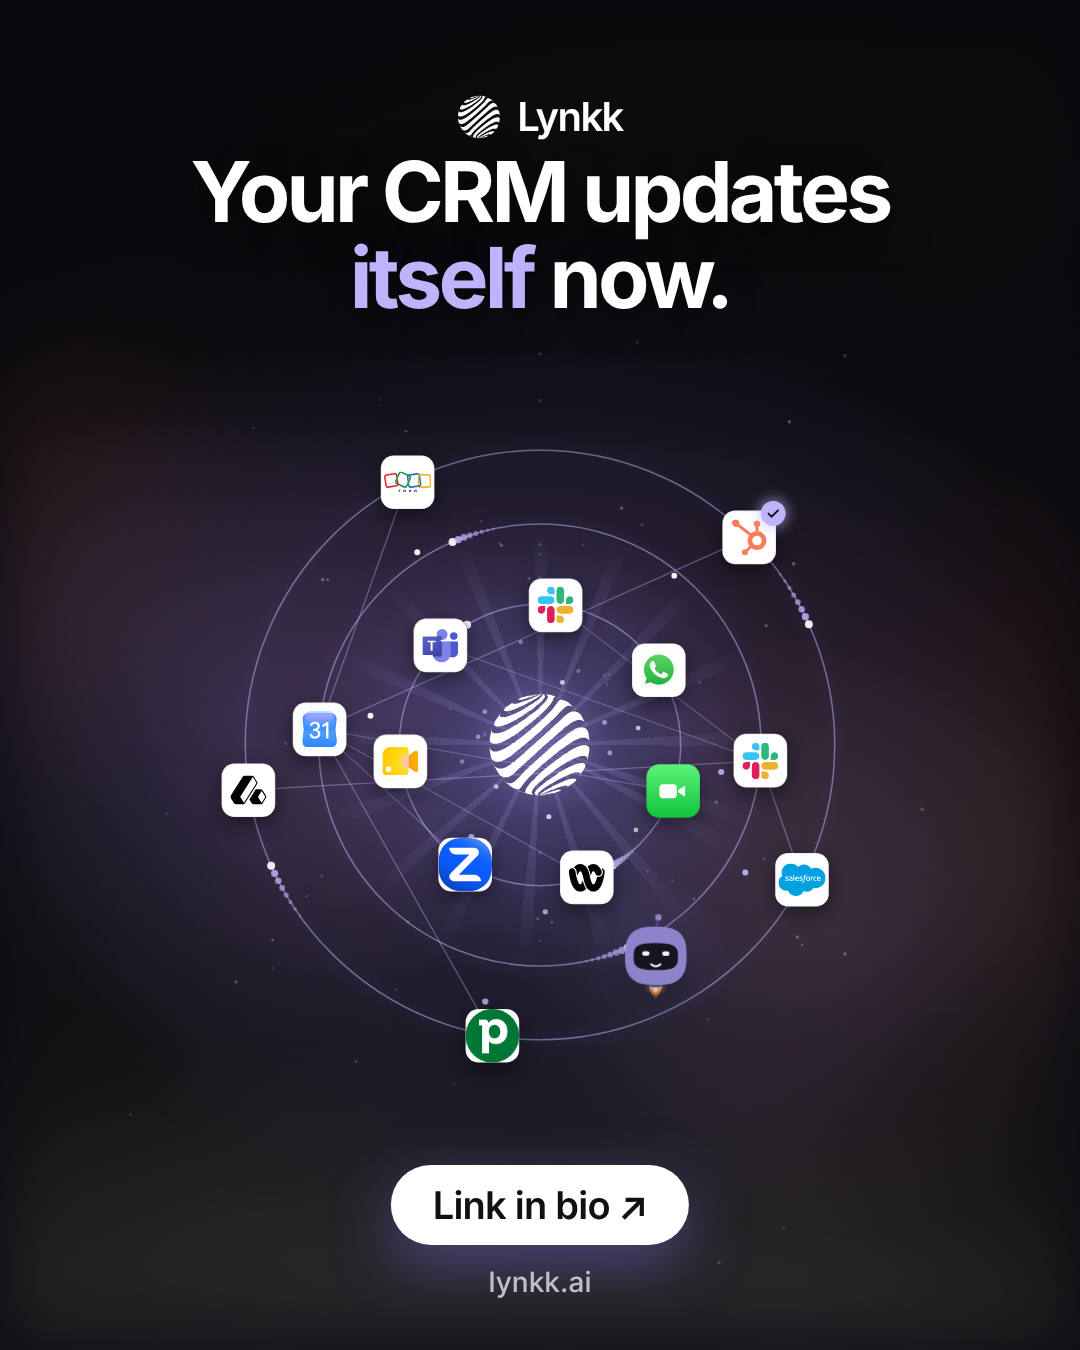
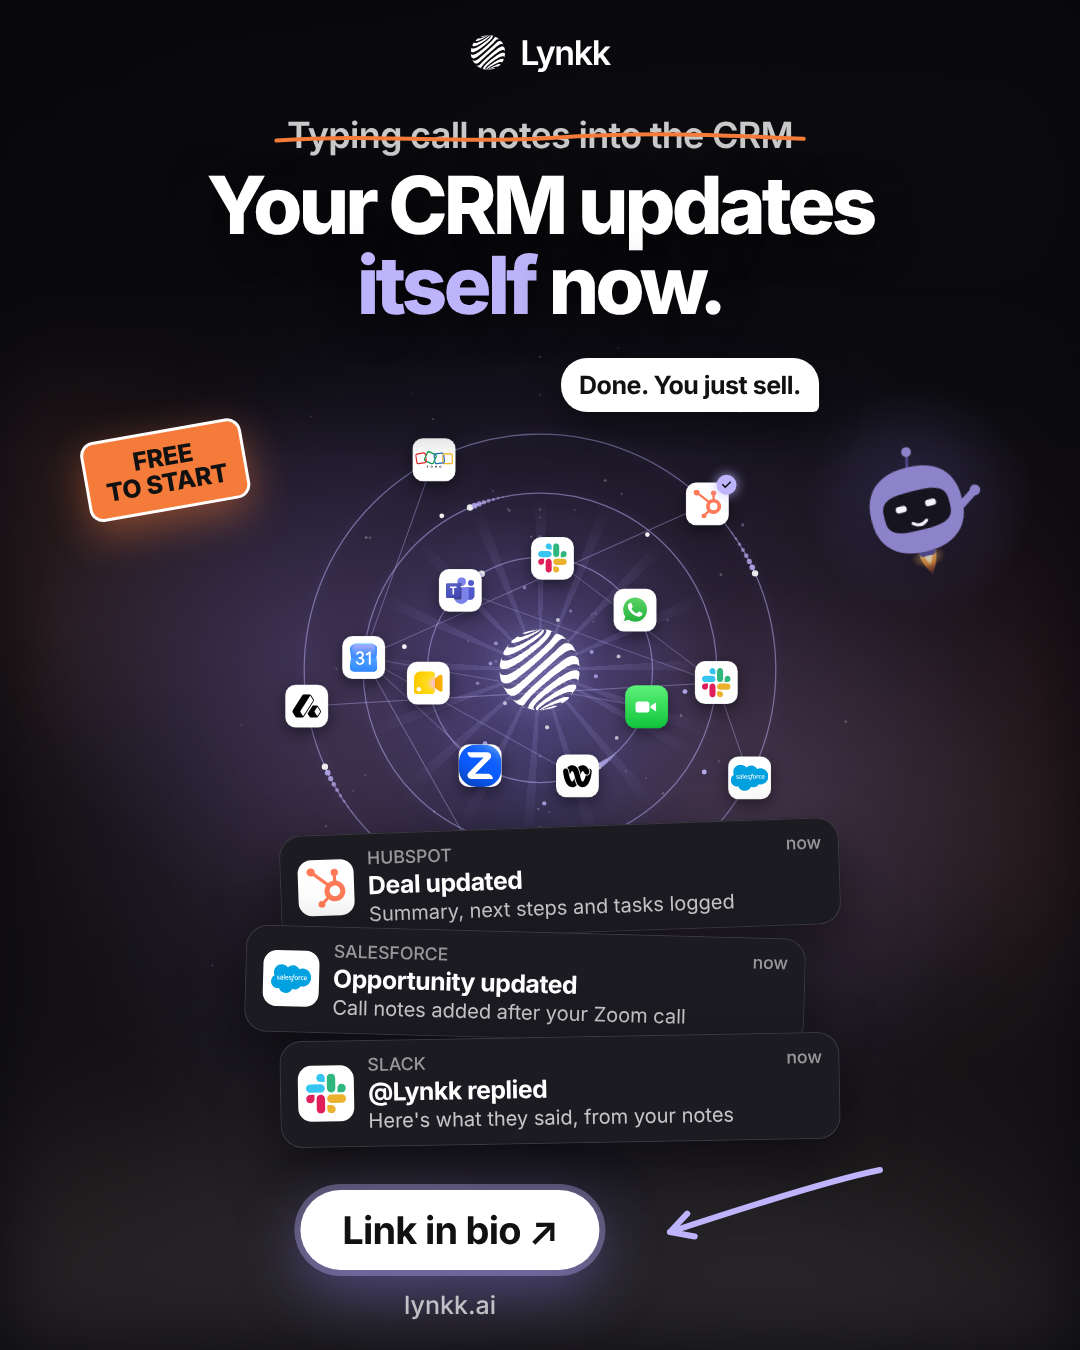
Viral cover v2 for The Orbit
Adds a crossed-out old habit ('Typing call notes into the CRM'), a stack
of HubSpot / Salesforce / Slack notifications over the orbit, Remi with
'Done. You just sell.', a FREE TO START sticker and a hand-drawn arrow
to 'Link in bio'.

Claude-Session: https://claude.ai/code/session_013GfxFGE5DaFWf2KnSjNRZk

diff --git a/lynkk-orbit-video/source/src/Cover.tsx b/lynkk-orbit-video/source/src/Cover.tsx
@@ -1,86 +1,224 @@
 import React from "react";
 import { AbsoluteFill, Img, Sequence, staticFile } from "remotion";
-import { FORMATS, FmtContext, INTER, MARK_PATHS, MARK_VIEWBOX, palette, per, type FmtName } from "./lib";
+import { FORMATS, FmtContext, INTER, MARK_PATHS, MARK_VIEWBOX, palette, per, type Fmt, type FmtName } from "./lib";
 import { Orbit } from "./scenes/Orbit";
+import { Remi } from "./remi/Remi";
+import { remiAt, wave } from "./remi/flight";
 import { T } from "./timing";
 
 /**
- * Cover images for the two videos: the orbit at full spin (the drop), with a
- * hook headline, the Lynkk mark and a "Link in bio" pill. Rendered as stills.
+ * Cover images for the two videos, built to stop the scroll: a crossed-out
+ * old habit, the hook, the orbit at full spin with a stack of notifications
+ * landing on it, Remi with a line, a FREE TO START sticker and a hand-drawn
+ * arrow to "Link in bio". Rendered as stills.
  */
-const FRAME = T.drop + 32; // every ring spinning, light streaming in, Remi mid-hop
+const FRAME = T.drop + 32; // every ring spinning, light streaming in
+
+type Box = { x: number; y: number };
+
+/** A phone-style notification. Strings describe what Lynkk really does (TRUTHS, Integrations). */
+const Toast: React.FC<{ at: Box; w: number; logo: string; app: string; title: string; body: string; rot: number; s: number }> = ({ at, w, logo, app, title, body, rot, s }) => (
+  <div
+    style={{
+      position: "absolute",
+      left: at.x,
+      top: at.y,
+      width: w,
+      transform: `translate(-50%, -50%) rotate(${rot}deg)`,
+      display: "flex",
+      gap: 18 * s,
+      alignItems: "center",
+      padding: `${18 * s}px ${22 * s}px`,
+      borderRadius: 28 * s,
+      background: "rgb(28,27,34)",
+      boxShadow: "inset 0 0 0 1px rgba(255,255,255,0.14), 0 24px 60px rgba(0,0,0,0.55)",
+      fontFamily: INTER,
+    }}
+  >
+    <div style={{ width: 70 * s, height: 70 * s, borderRadius: 17 * s, background: "#fff", display: "grid", placeItems: "center", flexShrink: 0 }}>
+      <Img src={staticFile(`logos/${logo}`)} style={{ width: 50 * s, height: 50 * s, objectFit: "contain" }} />
+    </div>
+    <div style={{ flex: 1, minWidth: 0 }}>
+      <div style={{ display: "flex", justifyContent: "space-between", fontSize: 22 * s, color: "rgba(255,255,255,0.55)", fontWeight: 500 }}>
+        <span>{app.toUpperCase()}</span>
+        <span>now</span>
+      </div>
+      <div style={{ fontSize: 31 * s, fontWeight: 700, color: "#fff", letterSpacing: "-0.02em", marginTop: 2 * s }}>{title}</div>
+      <div style={{ fontSize: 25 * s, color: "rgba(255,255,255,0.75)", marginTop: 2 * s, whiteSpace: "nowrap", overflow: "hidden", textOverflow: "ellipsis" }}>{body}</div>
+    </div>
+  </div>
+);
+
+/** A hand-drawn arrow from a to b, curving. */
+const Scribble: React.FC<{ fmt: Fmt; a: Box; b: Box; bend: number; color: string; w: number }> = ({ fmt, a, b, bend, color, w }) => {
+  const mx = (a.x + b.x) / 2 + bend;
+  const my = (a.y + b.y) / 2 - Math.abs(bend) * 0.4;
+  const ang = Math.atan2(b.y - my, b.x - mx);
+  const h = w * 4.2;
+  const l = { x: b.x - h * Math.cos(ang - 0.5), y: b.y - h * Math.sin(ang - 0.5) };
+  const r = { x: b.x - h * Math.cos(ang + 0.5), y: b.y - h * Math.sin(ang + 0.5) };
+  return (
+    <svg style={{ position: "absolute", inset: 0, width: fmt.W, height: fmt.H, overflow: "visible" }}>
+      <path d={`M${a.x} ${a.y} Q${mx} ${my} ${b.x} ${b.y}`} fill="none" stroke={color} strokeWidth={w} strokeLinecap="round" />
+      <path d={`M${l.x} ${l.y} L${b.x} ${b.y} L${r.x} ${r.y}`} fill="none" stroke={color} strokeWidth={w} strokeLinecap="round" strokeLinejoin="round" />
+    </svg>
+  );
+};
 
 export const Cover: React.FC<{ fmt: FmtName }> = ({ fmt: name }) => {
   const fmt = FORMATS[name];
   const L = per(
     fmt,
-    { brand: 300, head: 470, size: 104, orbitDy: 265, orbitK: 0.86, pill: 1575, pillFs: 44, url: 1665 },
-    { brand: 92, head: 235, size: 84, orbitDy: 225, orbitK: 0.8, pill: 1205, pillFs: 38, url: 1282 },
+    {
+      brand: 215, strike: 340, strikeFs: 46, head: 485, size: 104,
+      orbitDy: 215, orbitK: 0.72, orbitY: 740,
+      toastW: 700, toastS: 1, toasts: [{ x: 560, y: 1200 }, { x: 520, y: 1335 }, { x: 560, y: 1470 }],
+      remi: { x: 935, y: 790, size: 170 }, bubble: { x: 640, y: 640 },
+      sticker: { x: 175, y: 690 }, pill: { x: 470, y: 1640 }, pillFs: 46, arrow: { a: { x: 900, y: 1560 }, b: { x: 700, y: 1640 } }, url: 1730,
+    },
+    {
+      brand: 52, strike: 135, strikeFs: 36, head: 245, size: 80,
+      orbitDy: 150, orbitK: 0.64, orbitY: 520,
+      toastW: 560, toastS: 0.8, toasts: [{ x: 560, y: 880 }, { x: 525, y: 985 }, { x: 560, y: 1090 }],
+      remi: { x: 920, y: 500, size: 135 }, bubble: { x: 690, y: 385 },
+      sticker: { x: 165, y: 470 }, pill: { x: 450, y: 1230 }, pillFs: 38, arrow: { a: { x: 880, y: 1170 }, b: { x: 670, y: 1232 } }, url: 1305,
+    },
   );
-  const cy = per(fmt, 740, 520);
+  const remi = remiAt({ path: [{ f: 0, x: 0, y: 0 }], faces: [[0, "wave"]], stunts: [wave(0, 40)], noBlink: true }, 12);
   return (
     <FmtContext.Provider value={fmt}>
       <AbsoluteFill style={{ background: "#0b0a10", overflow: "hidden" }}>
         <Img src={staticFile("plate-night.jpg")} style={{ position: "absolute", inset: 0, width: "100%", height: "100%", objectFit: "cover", opacity: 0.16, filter: "blur(40px)" }} />
-        <AbsoluteFill style={{ background: "radial-gradient(70% 55% at 50% 55%, rgba(112,99,190,0.28), rgba(0,0,0,0) 70%)" }} />
-        <AbsoluteFill style={{ transform: `translateY(${L.orbitDy}px) scale(${L.orbitK})`, transformOrigin: `50% ${cy}px` }}>
+        <AbsoluteFill style={{ background: "radial-gradient(70% 55% at 50% 55%, rgba(112,99,190,0.32), rgba(0,0,0,0) 70%)" }} />
+        {/* the orbit at full spin, a bit smaller, under everything */}
+        <AbsoluteFill style={{ transform: `translateY(${L.orbitDy}px) scale(${L.orbitK})`, transformOrigin: `50% ${L.orbitY}px` }}>
           <Sequence from={-FRAME} layout="none">
             <Orbit cover />
           </Sequence>
         </AbsoluteFill>
-        {/* top fade so the headline reads */}
-        <AbsoluteFill style={{ background: `linear-gradient(180deg, rgba(8,8,12,0.92) 0%, rgba(8,8,12,0.75) ${per(fmt, 22, 20)}%, rgba(8,8,12,0) ${per(fmt, 36, 34)}%)` }} />
-        <div style={{ position: "absolute", left: 0, right: 0, top: L.brand, display: "flex", justifyContent: "center", alignItems: "center", gap: 16 }}>
-          <svg viewBox={MARK_VIEWBOX} width={per(fmt, 52, 44)} height={per(fmt, 52, 44)}>
+        <AbsoluteFill style={{ background: `linear-gradient(180deg, rgba(8,8,12,0.95) 0%, rgba(8,8,12,0.8) ${per(fmt, 24, 22)}%, rgba(8,8,12,0) ${per(fmt, 36, 34)}%)` }} />
+
+        {/* brand */}
+        <div style={{ position: "absolute", left: 0, right: 0, top: L.brand, display: "flex", justifyContent: "center", alignItems: "center", gap: 14, transform: "translateY(-50%)" }}>
+          <svg viewBox={MARK_VIEWBOX} width={per(fmt, 44, 36)} height={per(fmt, 44, 36)}>
             {MARK_PATHS.map((d, j) => (
               <path key={j} d={d} fill={palette.white} />
             ))}
           </svg>
-          <div style={{ fontFamily: INTER, fontWeight: 600, fontSize: per(fmt, 46, 40), letterSpacing: "-0.04em", color: palette.white }}>Lynkk</div>
+          <div style={{ fontFamily: INTER, fontWeight: 600, fontSize: per(fmt, 40, 34), letterSpacing: "-0.04em", color: palette.white }}>Lynkk</div>
         </div>
+
+        {/* the old habit, crossed out */}
+        <div style={{ position: "absolute", left: 0, right: 0, top: L.strike, transform: "translateY(-50%)", textAlign: "center" }}>
+          <span style={{ position: "relative", display: "inline-block", fontFamily: INTER, fontWeight: 600, fontSize: L.strikeFs, letterSpacing: "-0.02em", color: "rgba(255,255,255,0.78)", padding: "0 10px" }}>
+            Typing call notes into the CRM
+            <svg viewBox="0 0 100 20" preserveAspectRatio="none" style={{ position: "absolute", left: -6, right: -6, top: "38%", width: "calc(100% + 12px)", height: "40%", overflow: "visible" }}>
+              <path d="M1 12 C 20 4, 35 16, 52 9 S 82 5, 99 10" fill="none" stroke={palette.orange} strokeWidth={4.5} strokeLinecap="round" vectorEffect="non-scaling-stroke" style={{ strokeWidth: per(fmt, 5, 4) }} />
+            </svg>
+          </span>
+        </div>
+
+        {/* the hook */}
         <div
           style={{
             position: "absolute",
-            left: 50,
-            right: 50,
+            left: 40,
+            right: 40,
             top: L.head,
             transform: "translateY(-50%)",
             textAlign: "center",
             fontFamily: INTER,
-            fontWeight: 700,
+            fontWeight: 800,
             fontSize: L.size,
-            lineHeight: 1.02,
-            letterSpacing: "-0.045em",
+            lineHeight: 1.0,
+            letterSpacing: "-0.05em",
             color: palette.white,
-            textShadow: "0 8px 40px rgba(0,0,0,0.5)",
+            textShadow: "0 8px 40px rgba(0,0,0,0.6)",
           }}
         >
-          Your CRM updates<br />
+          Your CRM updates
+          <br />
           <span style={{ color: palette.lavender }}>itself</span> now.
         </div>
+
+        {/* FREE TO START sticker */}
         <div
           style={{
             position: "absolute",
-            left: "50%",
-            top: L.pill,
+            left: L.sticker.x,
+            top: L.sticker.y,
+            transform: "translate(-50%, -50%) rotate(-10deg)",
+            padding: `${per(fmt, 14, 11)}px ${per(fmt, 22, 17)}px`,
+            borderRadius: 14,
+            background: palette.orange,
+            color: palette.black,
+            fontFamily: INTER,
+            fontWeight: 800,
+            fontSize: per(fmt, 32, 25),
+            lineHeight: 1.05,
+            textAlign: "center",
+            letterSpacing: "-0.01em",
+            boxShadow: "0 14px 40px rgba(245,123,58,0.45)",
+            border: "3px solid #fff",
+          }}
+        >
+          FREE
+          <br />
+          TO START
+        </div>
+
+        {/* Remi and its line */}
+        <div
+          style={{
+            position: "absolute",
+            left: L.bubble.x,
+            top: L.bubble.y,
+            transform: "translate(-50%, -50%)",
+            padding: `${per(fmt, 16, 12)}px ${per(fmt, 24, 18)}px`,
+            borderRadius: 26,
+            borderBottomRightRadius: 6,
+            background: palette.white,
+            color: palette.black,
+            fontFamily: INTER,
+            fontWeight: 700,
+            fontSize: per(fmt, 32, 25),
+            letterSpacing: "-0.02em",
+            whiteSpace: "nowrap",
+            boxShadow: "0 16px 40px rgba(0,0,0,0.45)",
+          }}
+        >
+          Done. You just sell.
+        </div>
+        <Remi s={{ ...remi, x: L.remi.x, y: L.remi.y, rot: -8 }} size={L.remi.size} id="remi-cover" glow={0.7} />
+
+        {/* the notifications landing */}
+        <Toast at={L.toasts[0]} w={L.toastW} s={L.toastS} rot={-2} logo="hubspot.svg" app="HubSpot" title="Deal updated" body="Summary, next steps and tasks logged" />
+        <Toast at={L.toasts[1]} w={L.toastW} s={L.toastS} rot={1.5} logo="salesforce.svg" app="Salesforce" title="Opportunity updated" body="Call notes added after your Zoom call" />
+        <Toast at={L.toasts[2]} w={L.toastW} s={L.toastS} rot={-1} logo="slack.svg" app="Slack" title="@Lynkk replied" body="Here's what they said, from your notes" />
+
+        {/* the CTA */}
+        <div
+          style={{
+            position: "absolute",
+            left: L.pill.x,
+            top: L.pill.y,
             transform: "translate(-50%, -50%)",
             padding: `${L.pillFs * 0.45}px ${L.pillFs * 1.1}px`,
             borderRadius: 999,
             background: palette.white,
             color: palette.black,
             fontFamily: INTER,
-            fontWeight: 600,
+            fontWeight: 700,
             fontSize: L.pillFs,
             letterSpacing: "-0.02em",
             whiteSpace: "nowrap",
-            boxShadow: "0 20px 60px rgba(112,99,190,0.55)",
+            boxShadow: "0 0 0 6px rgba(190,180,251,0.35), 0 20px 60px rgba(112,99,190,0.6)",
           }}
         >
           Link in bio ↗
         </div>
-        <div style={{ position: "absolute", left: 0, right: 0, top: L.url, transform: "translateY(-50%)", textAlign: "center", fontFamily: INTER, fontWeight: 500, fontSize: per(fmt, 34, 28), color: "rgba(255,255,255,0.7)" }}>
-          lynkk.ai
-        </div>
+        <Scribble fmt={fmt} a={L.arrow.a} b={L.arrow.b} bend={per(fmt, 60, 50)} color={palette.lavender} w={per(fmt, 7, 6)} />
+        <div style={{ position: "absolute", left: L.pill.x, top: L.url, transform: "translate(-50%, -50%)", fontFamily: INTER, fontWeight: 500, fontSize: per(fmt, 30, 25), color: "rgba(255,255,255,0.7)" }}>lynkk.ai</div>
       </AbsoluteFill>
     </FmtContext.Provider>
   );

diff --git a/lynkk-orbit-video/source/src/scenes/Orbit.tsx b/lynkk-orbit-video/source/src/scenes/Orbit.tsx
@@ -513,8 +513,12 @@ export const Orbit: React.FC<{ cover?: boolean }> = ({ cover = false }) => {
         </div>
       ) : null}
       <svg style={{ position: "absolute", inset: 0, width: fmt.W, height: fmt.H, overflow: "visible" }}>{sparkles}</svg>
-      <Trail f={f} from={T.launch} pos={(g) => remiPos(fmt, g)} len={12} width={per(fmt, 18, 14)} opacity={1 - tween(f, T.button - 8, T.button)} />
-      <Remi s={remi} size={rSize} id="remi-orbit" glow={0.55} />
+      {cover ? null : (
+        <>
+          <Trail f={f} from={T.launch} pos={(g) => remiPos(fmt, g)} len={12} width={per(fmt, 18, 14)} opacity={1 - tween(f, T.button - 8, T.button)} />
+          <Remi s={remi} size={rSize} id="remi-orbit" glow={0.55} />
+        </>
+      )}
 
       <Flash f={f} at={T.lock3} peak={0.12} dur={8} color="#e2e0f2" />
       <Flash f={f} at={T.drop} peak={0.22} dur={9} color="#ffffff" />
